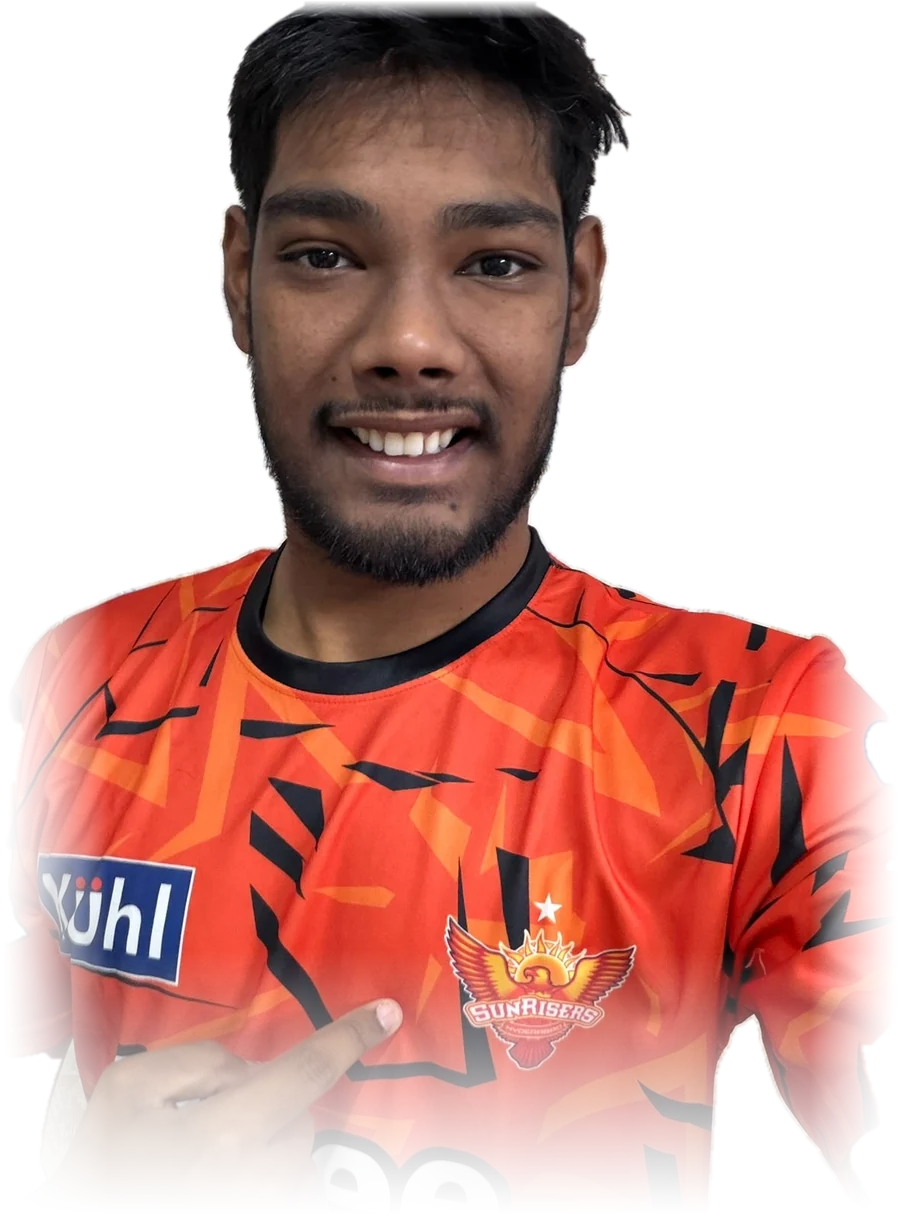
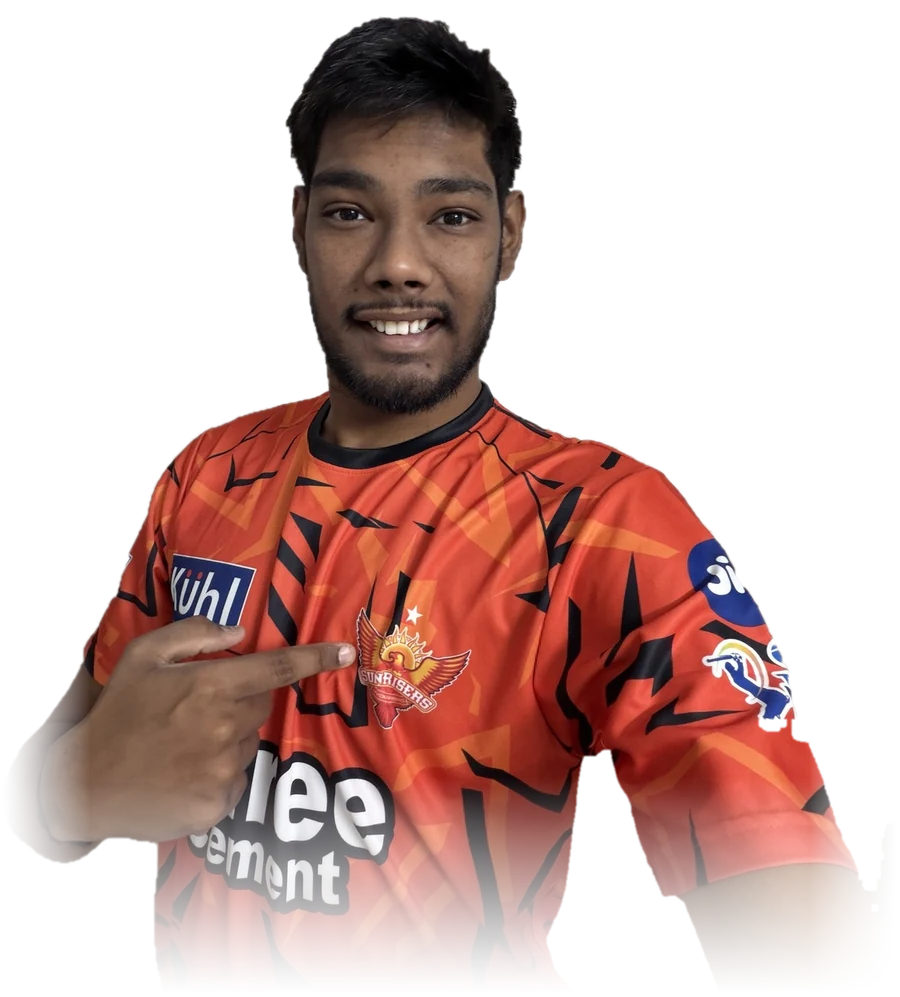
SRH: new hero photo, pointing at the crest with full head in frame
Claude-Session: https://claude.ai/code/session_018yCDpejobBH6E38wx2Ux6E

diff --git a/srh/index.html b/srh/index.html
@@ -48,7 +48,7 @@
   <div class="lights" aria-hidden="true"><i class="beam b1"></i><i class="beam b2"></i><i class="beam b3"></i><i class="beam b4"></i></div>
   <canvas class="embers" id="embers" aria-hidden="true"></canvas>
   <div class="hero-word" aria-hidden="true"><span>ORANGE</span><span>ARMY</span></div>
-  <img class="hero-me" src="media/photos/hero-cutout.webp" alt="Anudeep Gupta in the Sunrisers Hyderabad jersey, pointing at the crest" width="900" height="1218">
+  <img class="hero-me" src="media/photos/hero-cutout.webp" alt="Anudeep Gupta in the Sunrisers Hyderabad jersey, pointing at the crest" width="900" height="997">
   <div class="hero-copy">
     <div class="crest-row"><img class="hero-crest" src="media/logos/srh-logo.webp" alt="Sunrisers Hyderabad" width="640" height="481"><p class="tag"><i class="live" aria-hidden="true"></i>Breaking · New signing</p></div>
     <h1><span class="h1-a">Welcome to the Orange Army,</span><span class="h1-b">Anudeep <em>Gupta</em></span></h1>
